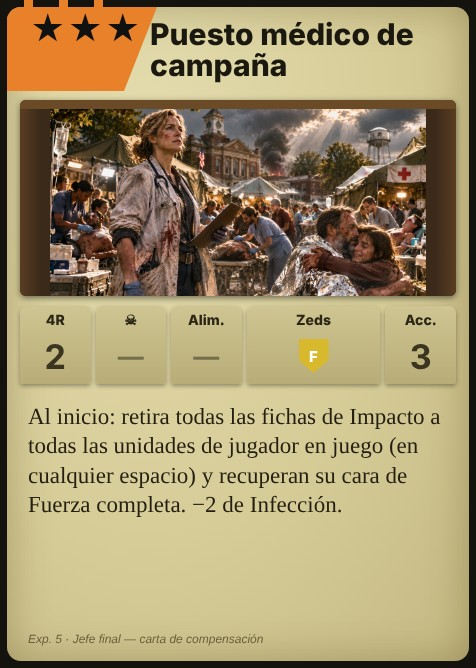
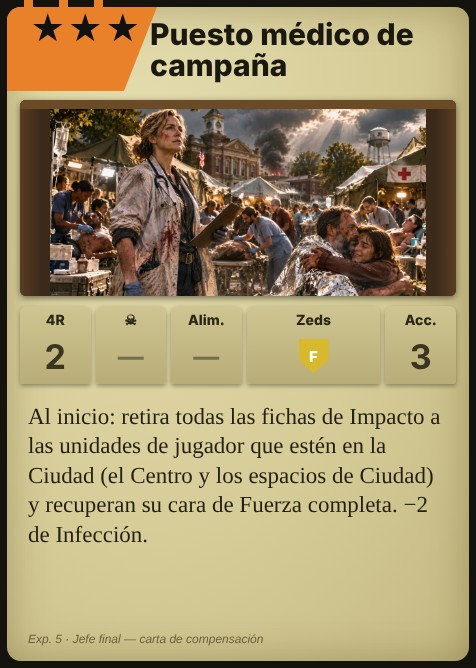
Exp. 5: Puesto médico de campaña solo cura a las unidades en la Ciudad; BUILD_TIME, CHANGELOG y caché
Claude-Session: https://claude.ai/code/session_01KmRiLbWWzhUthpc2eQKnLk

Changed region(s): [[0.0588, 0.6587, 0.9118, 0.8084]]

diff --git a/js/phases.js b/js/phases.js
@@ -498,7 +498,7 @@ async function eventEffect(ev) {
     case 'heroe_b': case 'heroe_g': { const k = randomAvailableHero(); if (k) { const inits = ['C'].concat(G.routes.map(r => r + '0')); await spawnHero(k, null, inits); } else LOG('No quedan Héroes disponibles.'); break; }
     case 'boss_heroe': { const pool = heroPoolFor(G.lv.n).filter(x => !hero(x) && !G.cemetery.some(c => c.key === x)); if (!pool.length) { LOG('Refuerzos: no quedan Héroes disponibles.'); break; } const key = pool.length === 1 ? pool[0] : await UI.chooseCards({ title: 'Refuerzos: llega un Héroe', text: 'Elige el Héroe que llega.', options: pool.map(heroOpt) }); if (key == null) break; const w = await UI.pickSpace(['C'].concat(G.routes.map(r => r + '0')), 'Elige dónde aparece el Héroe (el Centro o un espacio Inicial).', false); await spawnHero(key, w == null ? 'C' : w); break; }
     case 'boss_brigada': { const ch = CIVH_POOL.filter(x => civhAvail(x) && !hero(x) && HEROES[x].lv <= MAX_CIVH_LV[G.lv.n] && !G.cemetery.some(c => c.key === x)); if (!ch.length) { LOG('Brigada civil: no quedan Civiles Heroicos disponibles.'); break; } const v = ch.length === 1 ? ch[0] : await UI.chooseCards({ title: 'Brigada civil', text: 'Elige el Civil Heroico que llega al Centro.', options: ch.map(heroOpt) }); if (v != null) await spawnHero(v, 'C'); break; }
-    case 'boss_medico': { const us = allUnits(x => isFighter(x) && x.space && x.space !== 'CEM'); for (const u of us) { u.hits = 0; u.flipped = false; u.ecg = false; } LOG('Puesto médico de campaña: ' + us.length + ' unidad(es) de jugador se recuperan por completo.', 'good'); infDown(2); UI.redraw(); break; }
+    case 'boss_medico': { const us = allUnits(x => isFighter(x) && x.space && x.space !== 'CEM' && isCity(x.space)); for (const u of us) { u.hits = 0; u.flipped = false; u.ecg = false; } LOG('Puesto médico de campaña: ' + us.length + ' unidad(es) de jugador de la Ciudad se recuperan por completo.', 'good'); infDown(2); UI.redraw(); break; }
     case 'boss_cargamento': { G.ammo = Math.min(20, G.ammo + 5); G.supplies = Math.min(20, G.supplies + 5); UI.updateStats(); LOG('Cargamento aéreo: +5 de Munición y +5 de Suministros.', 'good'); break; }
     case 'boss_adrenalina': { const us = allUnits(x => ['hero', 'civh'].includes(x.type) && x.space && x.space !== 'CEM' && !x.ecg); us.forEach(u => { u.free = (u.free || 0) + 1; }); LOG('Adrenalina colectiva: ' + us.length + ' unidad(es) reciben 1 Acción gratis.', 'good'); UI.updateStats(); UI.updateHand(); UI.redraw(); break; }
     case 'keepcalm': { const hs = allUnits(x => x.type === 'hero' && x.space); if (hs.length) { const v = await UI.pickUnit(hs, '«Keep calm»: elige un Héroe (2 columnas a favor al atacar).'); G.units[v].keepCalm = true; } break; }

diff --git a/js/events.js b/js/events.js
@@ -112,7 +112,7 @@ ev('fin_r', 'Por fin ha terminado la larga pesadilla', 'r', 5, 0, 'B', 2, ['*','
 ev('boss_heroe', 'Refuerzos: llega un Héroe', 'o', 2, 2, 0, 0, ['T'], 3, ['Al inicio: elige un nuevo Héroe disponible y colócalo en el Centro de la Ciudad o en cualquier espacio Inicial.'], { exp: 5, fase: 'a' });
 ev('boss_cargamento', 'Cargamento aéreo', 'o', 2, 2, 0, 0, ['B'], 3, ['Al inicio: +5 de Munición y +5 de Suministros.'], { exp: 5, fase: 'a' });
 ev('boss_brigada', 'Brigada civil', 'o', 3, 2, 0, 0, ['M'], 3, ['Al inicio: elige una nueva unidad de Civiles Heroicos disponible y colócala en el Centro de la Ciudad.'], { exp: 5, fase: 'a' });
-ev('boss_medico', 'Puesto médico de campaña', 'o', 3, 2, 0, 0, ['F'], 3, ['Al inicio: retira todas las fichas de Impacto a todas las unidades de jugador en juego (en cualquier espacio) y recuperan su cara de Fuerza completa. −2 de Infección.'], { exp: 5, fase: 'a' });
+ev('boss_medico', 'Puesto médico de campaña', 'o', 3, 2, 0, 0, ['F'], 3, ['Al inicio: retira todas las fichas de Impacto a las unidades de jugador que estén en la Ciudad (el Centro y los espacios de Ciudad) y recuperan su cara de Fuerza completa. −2 de Infección.'], { exp: 5, fase: 'a' });
 ev('boss_adrenalina', 'Adrenalina colectiva', 'o', 4, 2, 0, 0, ['A'], 3, ['Al inicio: cada Héroe y cada Civil Heroico en juego recibe 1 Acción gratis este turno.'], { exp: 5, fase: 'a' });
 /* Las cartas del Jugador Zed y el texto «En Versus» de «¡Aquí está el Doctor!» (Dr. Marteuse) son solo del modo Versus (no incluido); el efecto en solitario de esa carta sí está. */
 

diff --git a/sw.js b/sw.js
@@ -1,7 +1,7 @@
 /* Service worker: permite instalar la web como app y jugar sin conexión.
    Código (html/js/css): red primero, con copia local de reserva. Imágenes y audio: caché primero. */
 'use strict';
-const CACHE = 'doz3-v115';
+const CACHE = 'doz3-v116';
 const SHELL = ['./', 'index.html', 'style.css', 'manifest.webmanifest', 'icons/icon-192.png', 'icons/icon-512.png', 'assets/portada.jpg', 'assets/fondo_nueva.webp', 'assets/fondo_ranking.webp',
   'js/version.js', 'js/data.js', 'js/events.js', 'js/dest.js', 'js/evlog.js', 'js/preview.js', 'js/obituario.js', 'js/engine.js', 'js/game.js', 'js/phases.js', 'js/actions.js', 'js/cardtext.js', 'js/ui.js', 'js/anim.js',
   'js/expansions.js', 'js/expansions2.js', 'js/jefe.js', 'js/sfx.js', 'js/sound.js', 'js/opciones.js', 'js/voz.js', 'js/ost.js', 'assets/sonidos/letras/letras.js', 'assets/sonidos/efectos/sfx_disparo.mp3', 'assets/sonidos/efectos/sfx_disparo_largo.mp3', 'js/mapzoom.js', 'js/movil.js', 'js/seedcode.js', 'js/save.js', 'js/main.js', 'js/bot.js'];

diff --git a/js/version.js b/js/version.js
@@ -1,4 +1,4 @@
 /* Fecha y hora de la última build (hora de Madrid). Se actualiza con cada cambio publicado. */
-const BUILD_TIME = '2026-11-11 20:19';
+const BUILD_TIME = '2026-11-11 20:51';
 /* Muestra la build en la pantalla inicial («Pulsa para empezar»). */
 { const e = document.getElementById('introBuild'); if (e) e.textContent = 'Build ' + BUILD_TIME; }

diff --git a/CHANGELOG.md b/CHANGELOG.md
@@ -2,6 +2,11 @@
 
 Registro de cambios por publicación (push a `main`). Lo más reciente, arriba. Cada entrada lleva la misma fecha y hora que `BUILD_TIME` de `js/version.js`.
 
+## 2026-11-11 20:51
+
+### Cambios
+- **Exp. 5, «Puesto médico de campaña»:** ahora cura solo a las unidades de jugador que estén **en la Ciudad** (el Centro y los espacios de Ciudad), en lugar de a todas las del tablero. Retira todos sus Impactos, recuperan la cara completa y −2 de Infección. Carta regenerada. Caché v116.
+
 ## 2026-11-11 20:19
 
 ### Cambios
